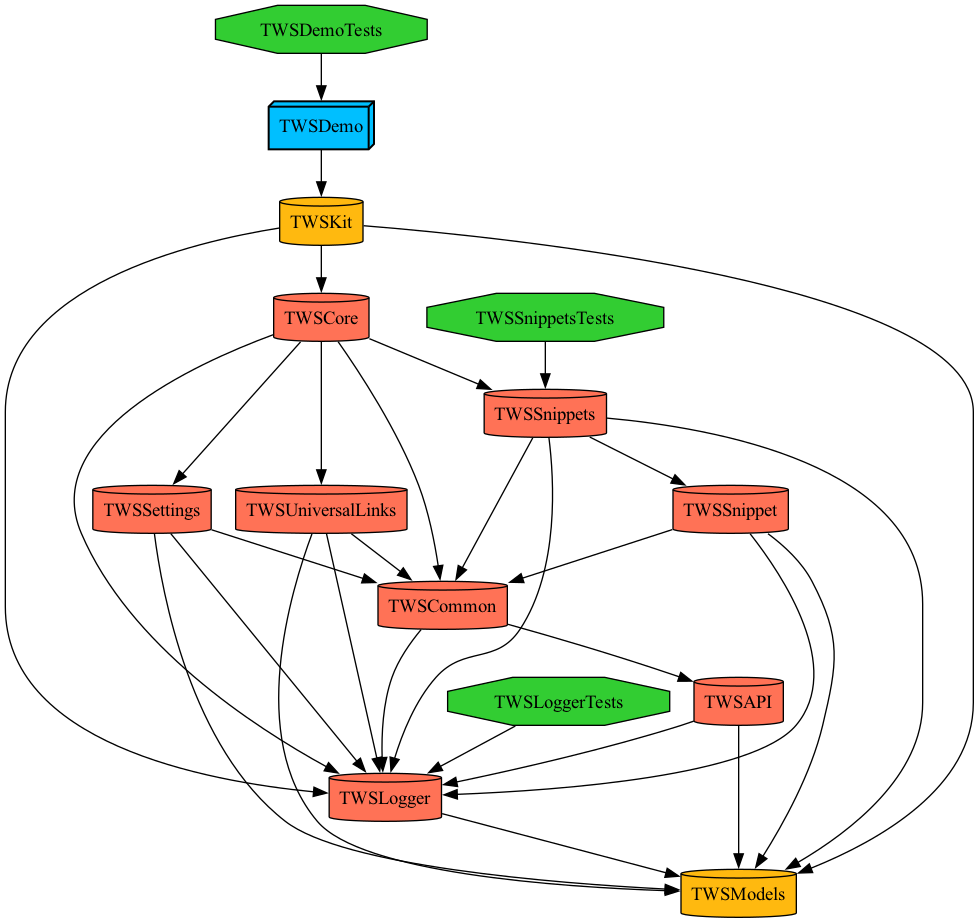
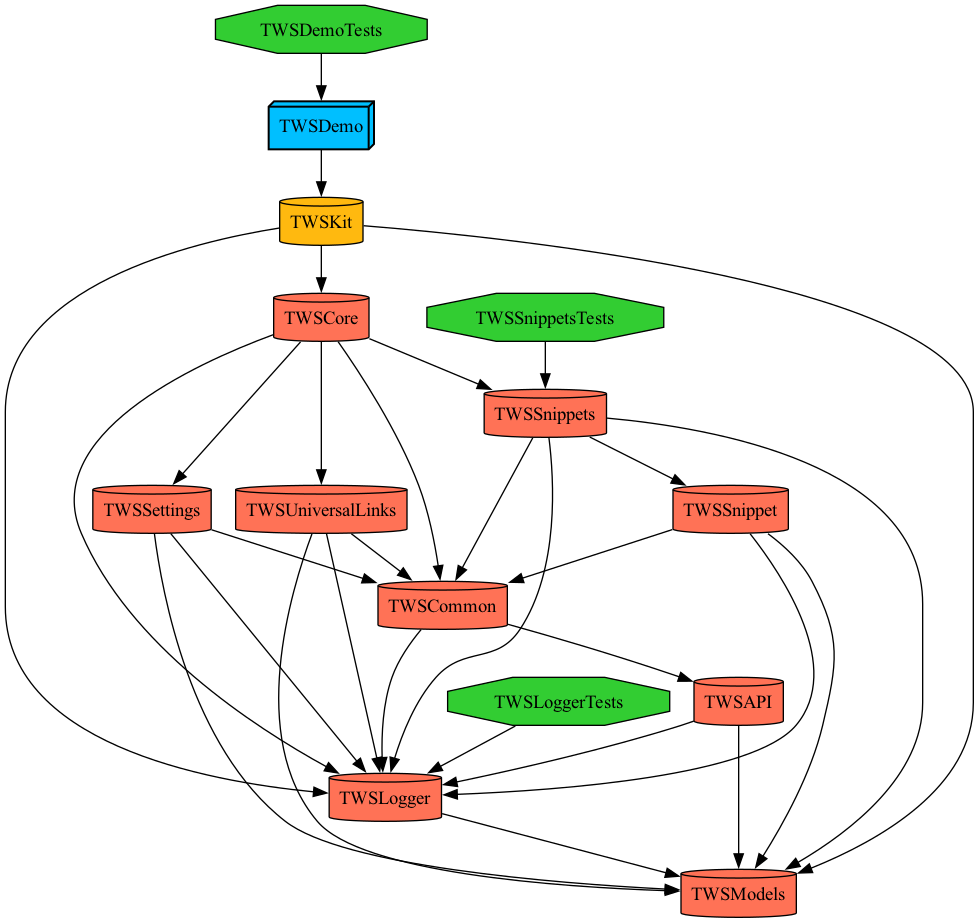
Moved documentCatalog further in app

Changed region(s): [[0.6742, 0.9404, 0.8274, 1.0]]

diff --git a/Project.swift b/Project.swift
@@ -186,7 +186,7 @@ let project = Project(
         .target(
             name: "TWSModels",
             destinations: .iOS,
-            product: .framework,
+            product: .staticFramework,
             bundleId: "com.inova.twsmodels",
             deploymentTargets: .iOS(deploymentTarget()),
             sources: ["TWSModels/Sources/**"],
